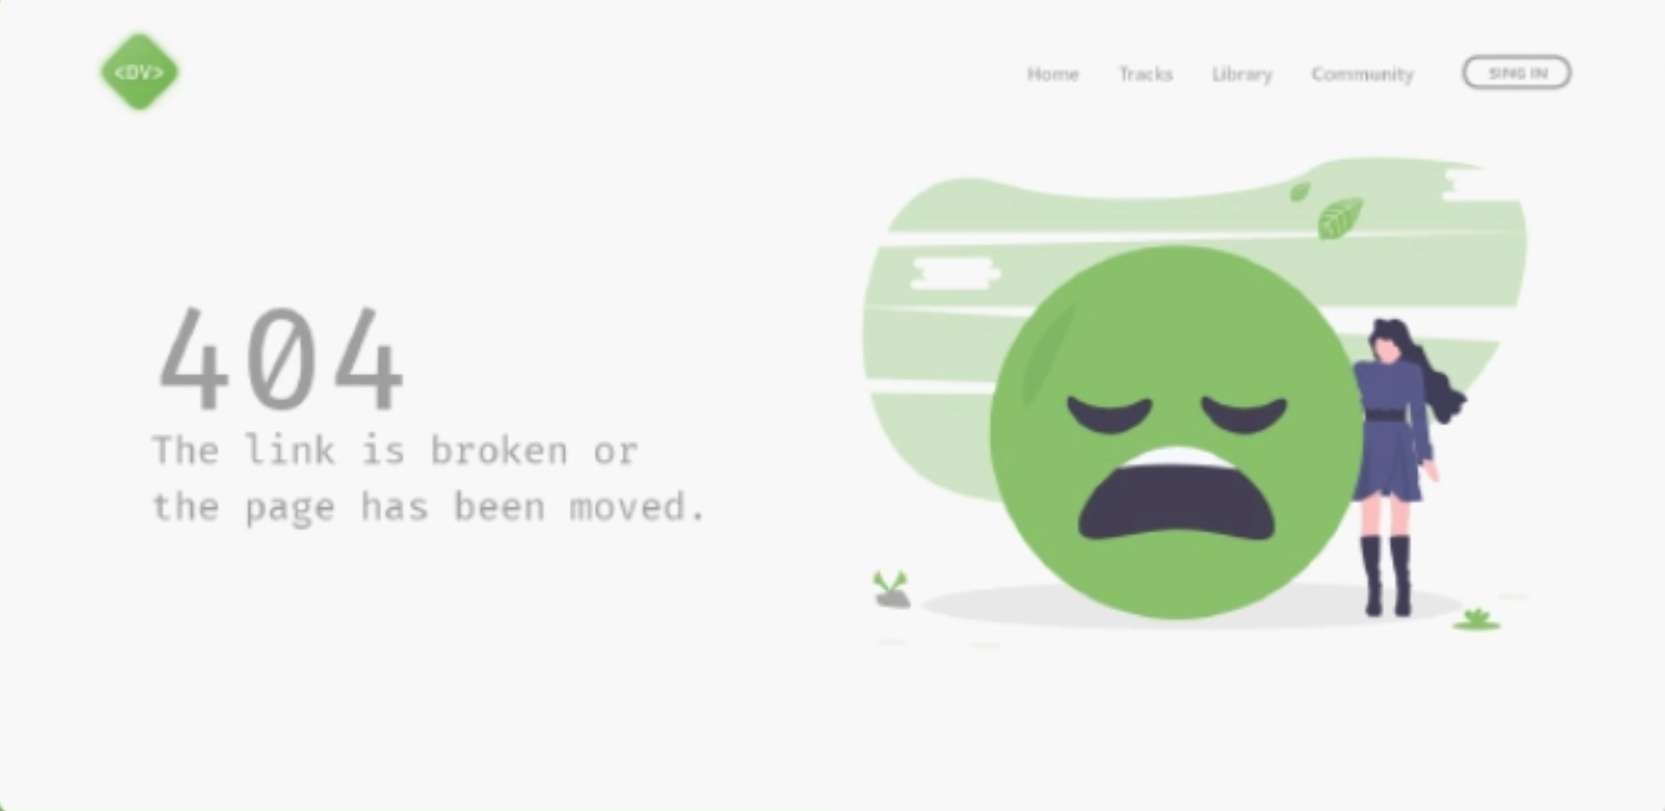
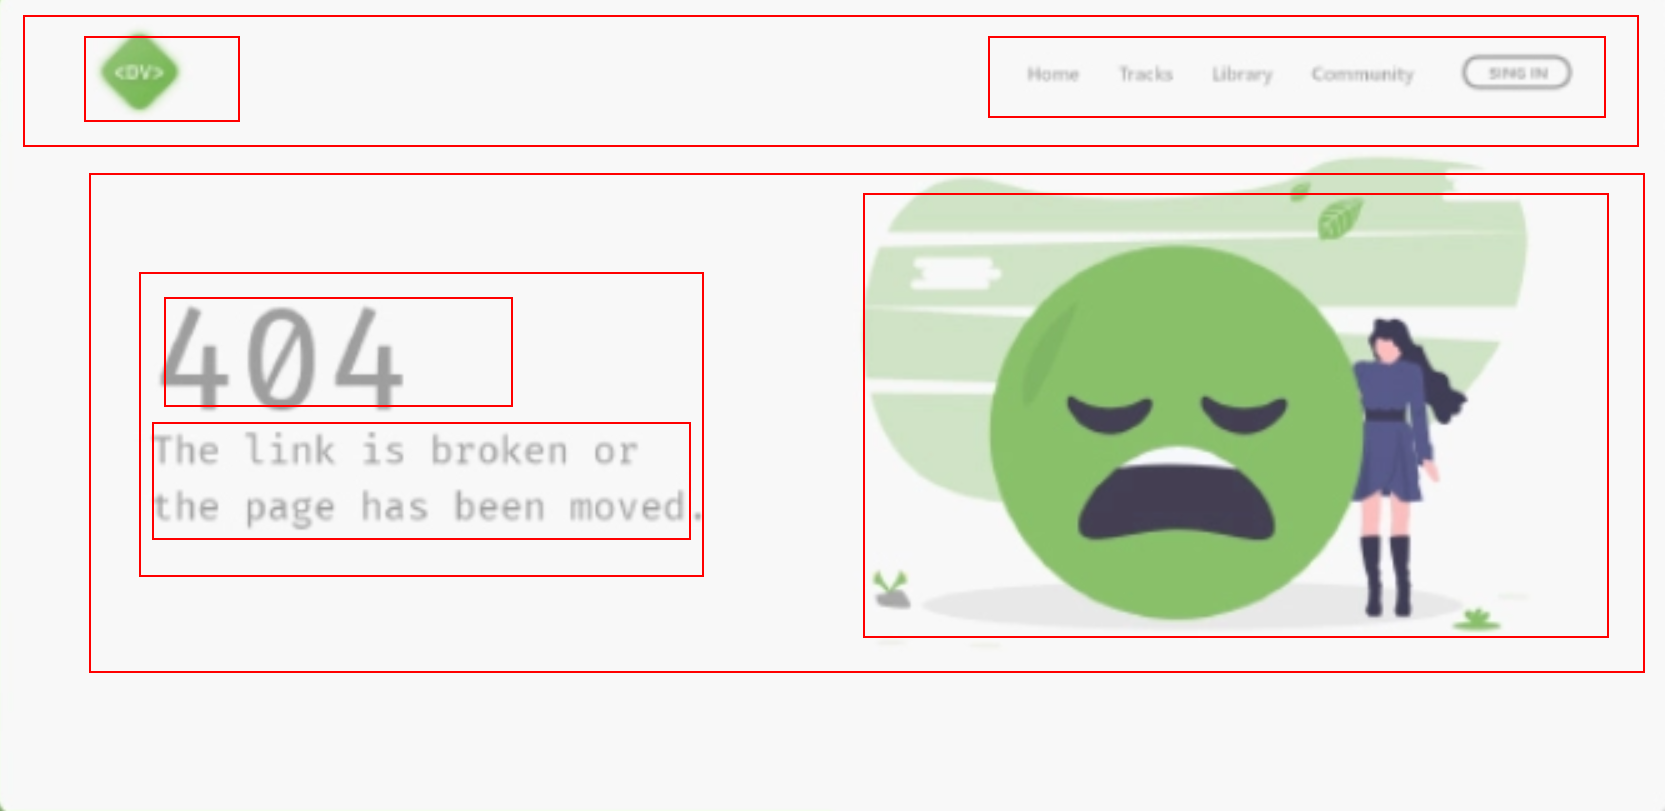
i pabaiga

Changed region(s): [[0.0937, 0.4932, 0.3123, 0.524], [0.5934, 0.1233, 0.6246, 0.1541]]

diff --git a/2-Namu darbas/mergaite/css/main.css b/2-Namu darbas/mergaite/css/main.css
@@ -1,38 +1,76 @@
 body {
-
+    background-color: #f8f8f8;
 }
 
 .container {
-
+    display: inline-block;
+    width: 1000px;
+    margin-top: 40px;
+    margin-left: calc( (100% - 1000px) / 2 );
+    
 }
     header {
+        display: inline-block;
+        width: 100%;
+        
 
     }
         .logo{
+            display: inline-block;
+            float: left;
+            height: 60px;
+
 
         }
         nav {
+            display: inline-block;
+            float: right;
+            margin-top: 20px;
+            font-size: 20px;
 
         }
             a {
+                display: inline-block;
+                float: left;
+                margin-right: 40px;
+                font-size: 20px;
+                line-height: 20px;
+
 
             }
                 .btn {
 
                 }
     section{
+        display: inline-block;
+        width: 100%;
+        margin-top: 80px;
+       
 
     }
         div {
+            display: inline-block;
+            float: left;
+            width: 46%;
+            margin-top: 80px;
+            margin-left: 2%;
+            margin-right: 2%;
 
         }
-            h1 {
+            h1 { 
 
             }
+            
             p {
 
             }
-        .mergaite {
+        
+            .mergaite {
+                display: inline-block;
+                float: right;
+                width: 46%;
+                margin-left: 2%;
+                margin-right: 2%;
 
         }
 

diff --git a/2-Namu darbas/mergaite/index.html b/2-Namu darbas/mergaite/index.html
@@ -5,12 +5,12 @@
     <meta name="viewport" content="width=device-width, initial-scale=1.0">
     <title>Mergaite</title>
     <link rel="stylesheet" href="./css/reset.css">
-    <link rel="stylesheet" href="./css/main.css.">
+    <link rel="stylesheet" href="./css/main.css">
 </head>
 <body>
     <div class="container">
         <header>
-            <img src="/img/logo.png" alt="Logo" class="logo">
+            <img src="./img/logo.png" alt="Logo" class="logo">
             <nav>
                 <a href="#">Home</a>
                 <a href="#">Tracks</a>
@@ -28,9 +28,9 @@
             <img src="./img/logo2.png" alt="Mergaite" class="mergaite">
 
         </section>
-
-        
-
+    
+    
+    
     </div>
 </body>
 </html>
